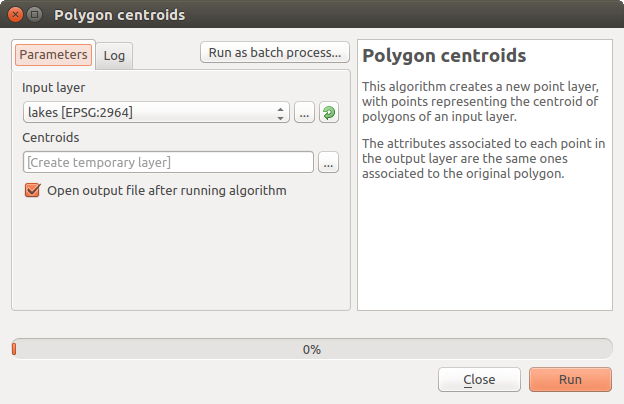
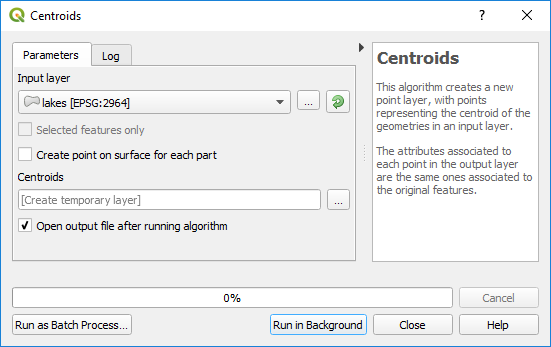
Update Processing toolbox general behavior
Deactivated providers are never reminded in the dialog
More emphasis on models and scripts
Update screenshots

Changed region(s): [[0.0, 0.0, 1.0, 1.0]]

diff --git a/source/docs/user_manual/processing/toolbox.rst b/source/docs/user_manual/processing/toolbox.rst
@@ -12,9 +12,11 @@ The Toolbox
    .. contents::
       :local:
 
-The *Toolbox* is the main element of the processing GUI, and the one that you are
-more likely to use in your daily work. It shows the list of all available
-algorithms grouped in different blocks, and it is the access point to run them,
+The :guilabel:`Processing Toolbox` is the main element of the processing GUI,
+and the one that you are more likely to use in your daily work. It shows the
+list of all available **algorithms** grouped in different blocks called
+*Providers*, and custom **models** and **scripts** you can add to extend the
+set of tools. Hence the toolbox is the access point to run them,
 whether as a single process or as a batch process involving several executions
 of the same algorithm on different sets of inputs.
 
@@ -25,34 +27,33 @@ of the same algorithm on different sets of inputs.
 
    Processing Toolbox
 
-The toolbox contains all the available algorithms, divided into so-called "Providers".
 
-Providers can be (de)activated in the :ref:`settings dialog <processing.options>`.
-A label in the bottom part of the toolbox will remind you of that whenever there
-are inactive providers. Use the link in the label to open the settings window and
-set up providers. We will discuss the settings dialog later in this manual.
-
+Providers can be (de)activated in the :ref:` Processing settings dialog
+<processing.options>`.
 By default, only providers that do not rely on third-party applications (that is,
 those that only require QGIS elements to be run) are active. Algorithms requiring
 external applications might need additional configuration. Configuring providers
 is explained in a :ref:`later chapter <processing.results>` in this manual.
 
-In the upper part of the toolbox, you will find a set of tools to:
+In the upper part of the toolbox dialog, you will find a set of tools to:
 
 * work with |processingModel| :sup:`Models`: :guilabel:`Create New Model...`,
-  :guilabel:`Open Existing Model...` and :guilabel:`Add Model from File...`;
+  :guilabel:`Open Existing Model...` and :guilabel:`Add Model to Toolbox...`;
 * work with |pythonFile| :sup:`Scripts`: :guilabel:`Create New Script...`,
-  :guilabel:`Create New Script from Template...` and :guilabel:`Add Script from
-  File...`;
+  :guilabel:`Create New Script from Template...`, :guilabel:`Open Existing
+  Script...` and :guilabel:`Add Script to Toolbox...`;
 * open the |processingHistory| :sup:`History` panel;
 * open the |processingResult| :sup:`Results Viewer` panel;
 * open the |options| :sup:`Options` dialog.
 
-Below this toolbar is a search box. To reduce the number
-of algorithms shown in the toolbox and make it easier to find the one you need,
-you can enter any word or phrase on the text box. Notice that, as you type, the
-number of algorithms in the toolbox is reduced to just those that contain the
-text you have entered in their names or keywords.
+Below this toolbar is a |search| :guilabel:`Search` box to help you easily find
+the tools you need.
+You can enter any word or phrase on the text box. Notice that, as you type, the
+number of algorithms, models or scripts in the toolbox is reduced to just those
+that contain the text you have entered in their names or keywords.
+
+.. note:: At the top of the list of algorithms are displayed the most recent
+ used tools; handy if you want to reexecute any.
 
 .. _figure_toolbox_search:
 
@@ -62,14 +63,14 @@ text you have entered in their names or keywords.
    Processing Toolbox showing search results
 
 
-To execute an algorithm, just double-click on its name in the toolbox.
+To execute a tool, just double-click on its name in the toolbox.
 
 The algorithm dialog
 --------------------
 
 Once you double-click on the name of the algorithm that you want to execute, a
 dialog similar to that in the figure below is shown (in this case, the dialog
-corresponds to the 'Polygon centroids' algorithm).
+corresponds to the ``Centroids`` algorithm).
 
 .. _figure_parameters_dialog:
 
@@ -381,5 +382,7 @@ to a temporary file and deleted once you exit QGIS).
 .. |processingResult| image:: /static/common/processingResult.png
    :width: 1.5em
 .. |pythonFile| image:: /static/common/mIconPythonFile.png
+   :width: 1.5em
+.. |search| image:: /static/common/search.png
    :width: 1.5em
 .. |updatedisclaimer| replace:: :disclaimer:`Docs in progress for 'QGIS testing'. Visit http://docs.qgis.org/2.18 for QGIS 2.18 docs and translations.`
